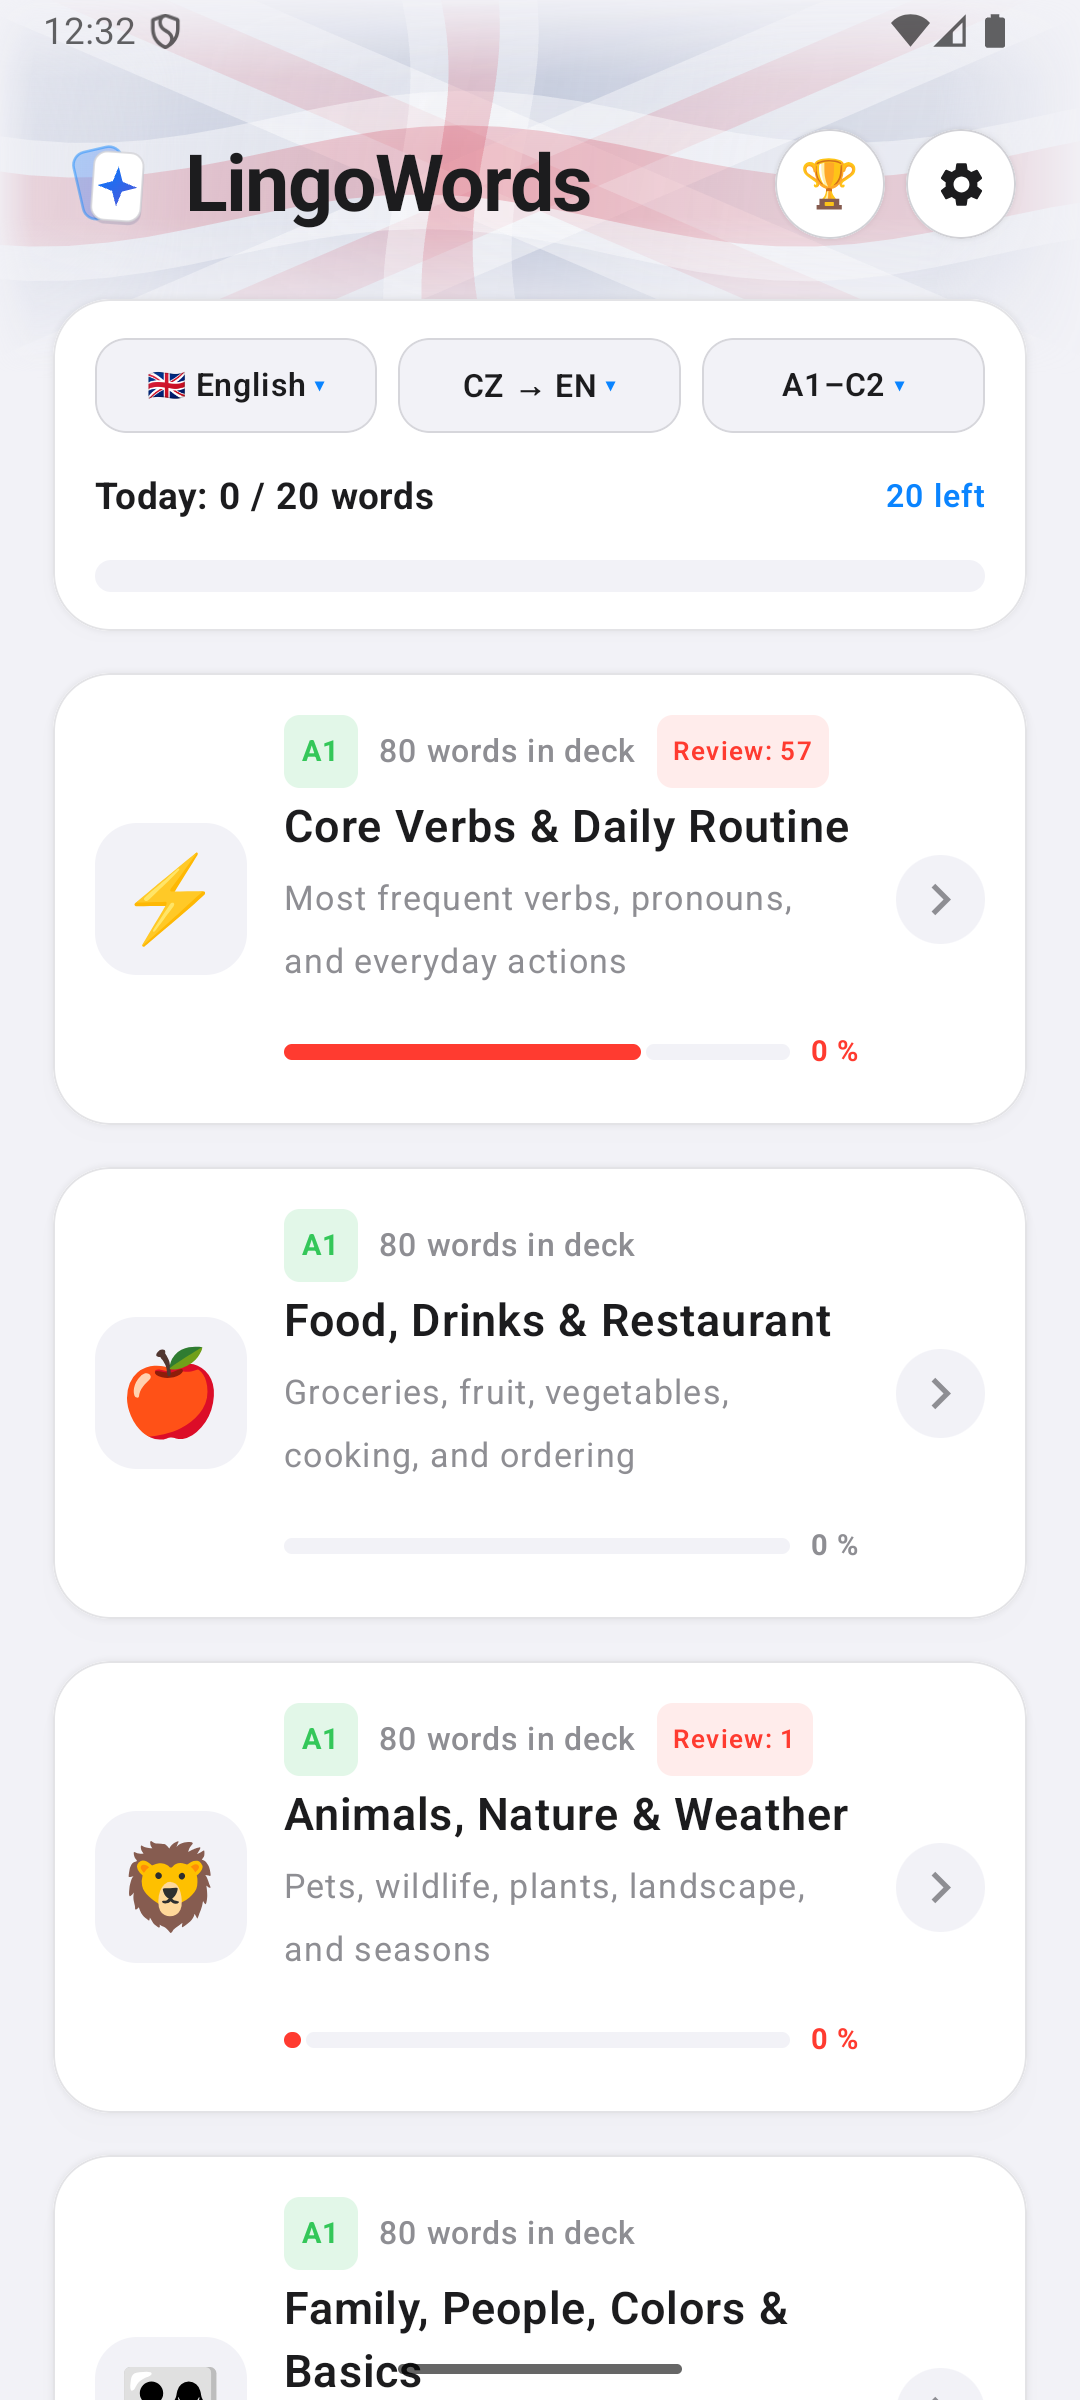
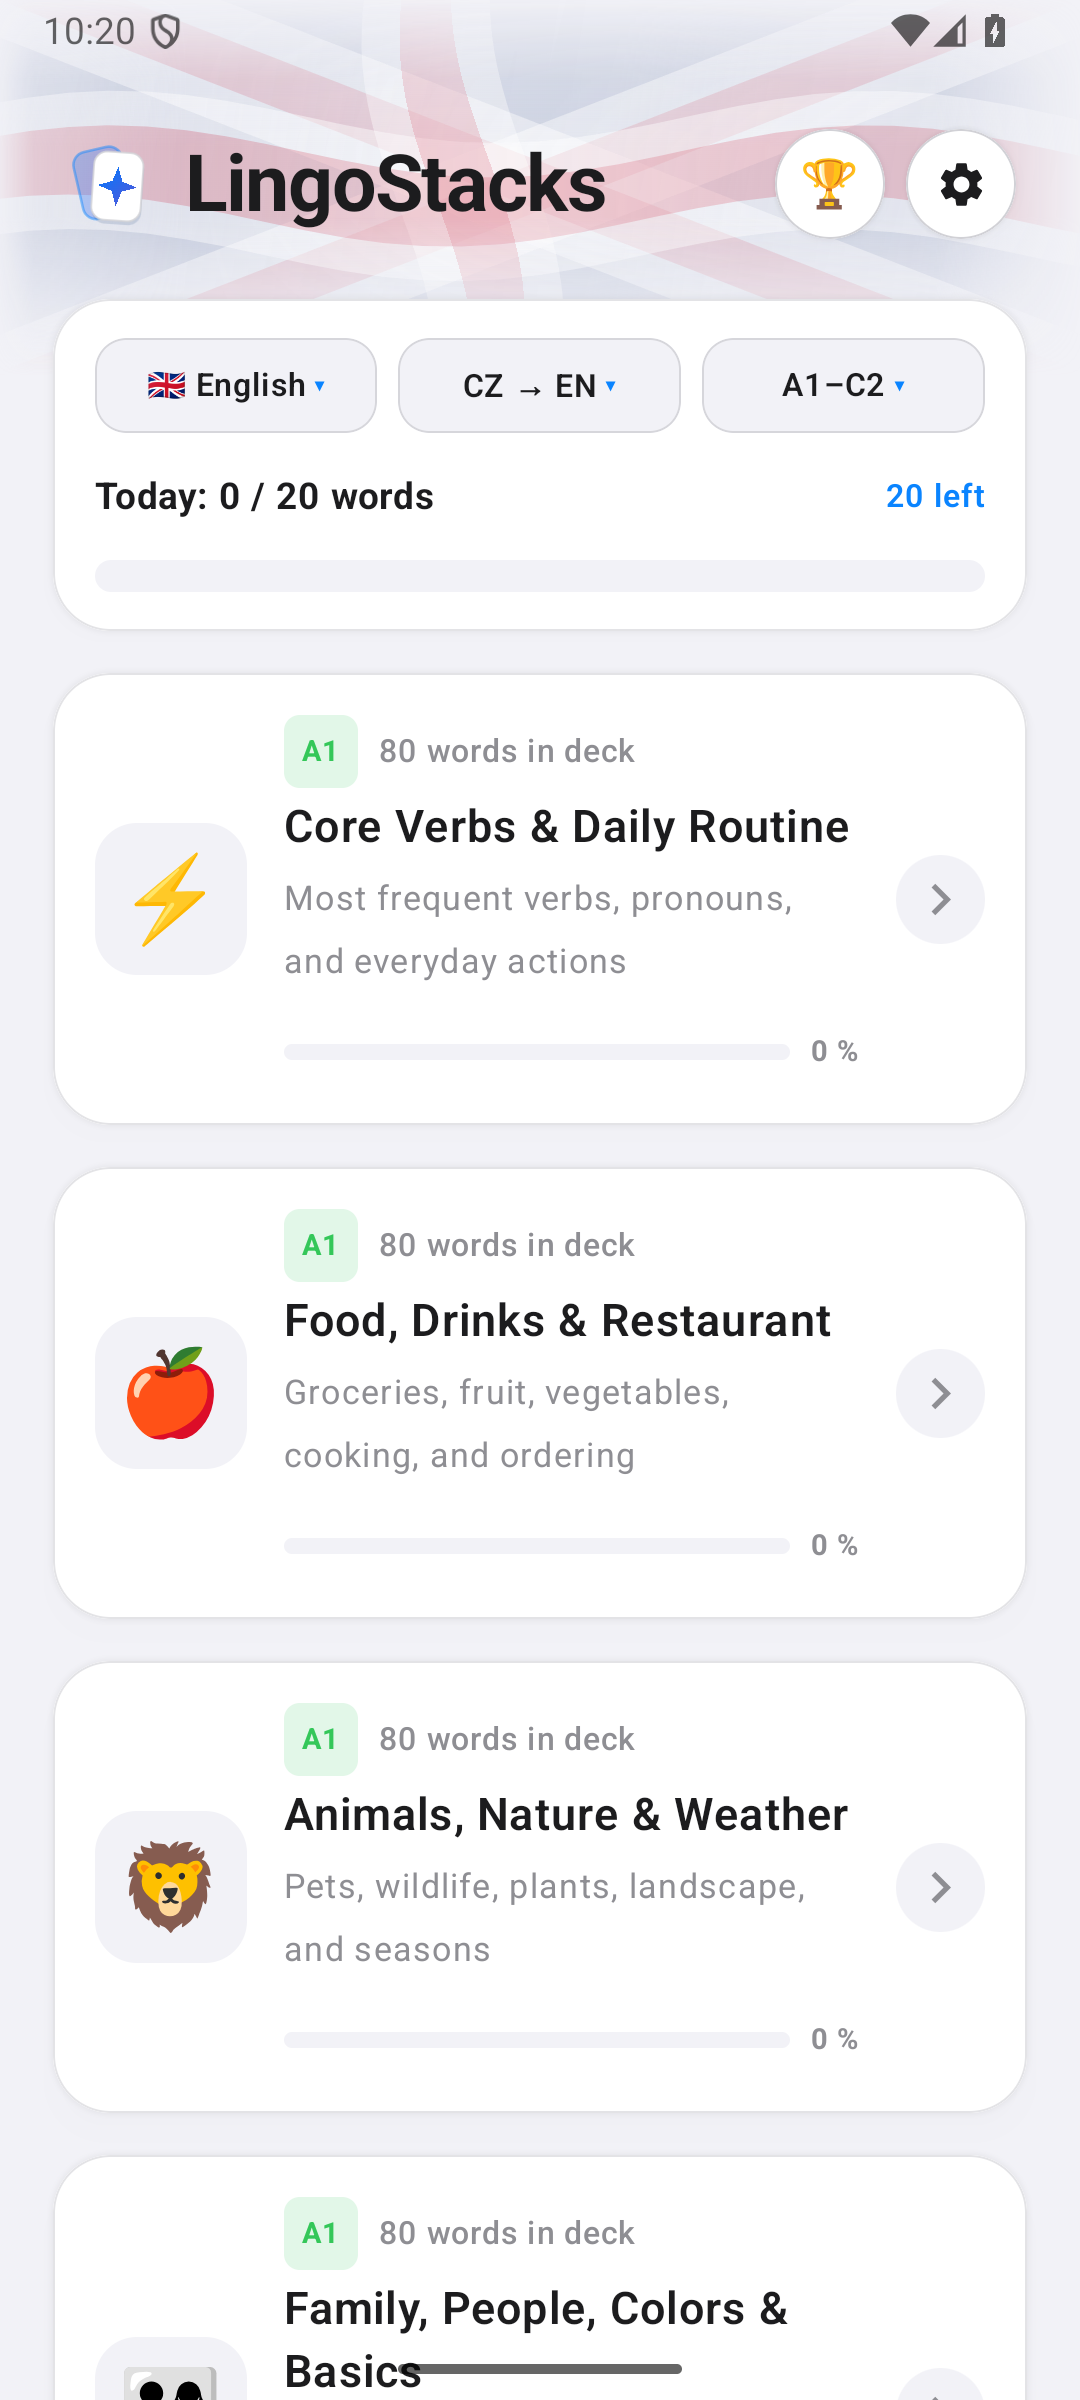
release: LingoWords v1.6.44

diff --git a/app/src/main/java/cz/slovickaspeak/app/data/OtaUpdater.kt b/app/src/main/java/cz/slovickaspeak/app/data/OtaUpdater.kt
@@ -39,7 +39,7 @@ sealed interface OtaCheckResult {
 }
 
 object OtaUpdater {
-    const val DEFAULT_GITHUB_REPO = "radekvlk/LingoWords"
+    const val DEFAULT_GITHUB_REPO = "radekvlk/LingoStacks"
 
     /**
      * Normalizes either "owner/repo" or "https://github.com/owner/repo" into "owner/repo".
@@ -112,7 +112,7 @@ object OtaUpdater {
                 readTimeout = 7000
                 setRequestProperty("Cache-Control", "no-cache")
                 setRequestProperty("Accept", "application/vnd.github+json")
-                setRequestProperty("User-Agent", "LingoWords-Android/${BuildConfig.VERSION_NAME}")
+                setRequestProperty("User-Agent", "LingoStacks-Android/${BuildConfig.VERSION_NAME}")
             }
 
             val code = conn.responseCode
@@ -157,7 +157,7 @@ object OtaUpdater {
                     if (name.endsWith(".apk", ignoreCase = true)) {
                         val dlUrl = asset.optString("browser_download_url", "")
                         val size = asset.optLong("size", 0L)
-                        if (chosenUrl.isEmpty() || name.contains("LingoWords", ignoreCase = true)) {
+                        if (chosenUrl.isEmpty() || name.contains("LingoStacks", ignoreCase = true) || name.contains("LingoWords", ignoreCase = true)) {
                             chosenUrl = dlUrl
                             chosenName = name
                             chosenSize = size
@@ -218,7 +218,7 @@ object OtaUpdater {
                 connectTimeout = 7000
                 readTimeout = 7000
                 setRequestProperty("Cache-Control", "no-cache")
-                setRequestProperty("User-Agent", "LingoWords-Android/${BuildConfig.VERSION_NAME}")
+                setRequestProperty("User-Agent", "LingoStacks-Android/${BuildConfig.VERSION_NAME}")
             }
             val code = conn.responseCode
             val location = conn.getHeaderField("Location") ?: ""
@@ -247,15 +247,15 @@ object OtaUpdater {
             }
 
             // Inspect expanded_assets HTML fragment to find the exact .apk download link
-            var apkUrl = "https://github.com/$slug/releases/download/$tagName/LingoWords_$tagName.apk"
-            var apkName = "LingoWords_$tagName.apk"
+            var apkUrl = "https://github.com/$slug/releases/download/$tagName/LingoStacks_$tagName.apk"
+            var apkName = "LingoStacks_$tagName.apk"
             try {
                 val assetsUrl = URL("https://github.com/$slug/releases/expanded_assets/$tagName")
                 val assetsConn = (assetsUrl.openConnection() as HttpURLConnection).apply {
                     requestMethod = "GET"
                     connectTimeout = 6000
                     readTimeout = 6000
-                    setRequestProperty("User-Agent", "LingoWords-Android/${BuildConfig.VERSION_NAME}")
+                    setRequestProperty("User-Agent", "LingoStacks-Android/${BuildConfig.VERSION_NAME}")
                 }
                 if (assetsConn.responseCode in 200..299) {
                     val html = assetsConn.inputStream.bufferedReader(Charsets.UTF_8).use { it.readText() }
@@ -352,8 +352,8 @@ object OtaUpdater {
             if (!exists()) mkdirs()
         }
 
-        val targetFile = File(updatesDir, "LingoWords_v${release.versionName}.apk")
-        val tempFile = File(updatesDir, "LingoWords_v${release.versionName}.apk.tmp")
+        val targetFile = File(updatesDir, "LingoStacks_v${release.versionName}.apk")
+        val tempFile = File(updatesDir, "LingoStacks_v${release.versionName}.apk.tmp")
 
         var currentUrl = release.apkDownloadUrl
         var conn: HttpURLConnection? = null
@@ -363,7 +363,7 @@ object OtaUpdater {
                 instanceFollowRedirects = false
                 connectTimeout = 12000
                 readTimeout = 20000
-                setRequestProperty("User-Agent", "LingoWords-Android/${BuildConfig.VERSION_NAME}")
+                setRequestProperty("User-Agent", "LingoStacks-Android/${BuildConfig.VERSION_NAME}")
             }
             val status = attempt.responseCode
             if (status in 300..399) {

diff --git a/app/src/main/java/cz/slovickaspeak/app/ui/SettingsModal.kt b/app/src/main/java/cz/slovickaspeak/app/ui/SettingsModal.kt
@@ -735,7 +735,7 @@ private fun AppVersionSectionCard(
     val githubReleasesUrl = "https://github.com/$cleanSlug/releases/latest"
     val targetShareVersion = available?.versionName ?: versionName
     val directApkDownloadUrl = available?.apkDownloadUrl?.takeIf { it.isNotBlank() }
-        ?: "https://github.com/$cleanSlug/releases/download/v$versionName/LingoWords_v$versionName.apk"
+        ?: "https://github.com/$cleanSlug/releases/download/v$versionName/LingoStacks_v$versionName.apk"
 
     val shareDirectApkLink: () -> Unit = {
         val shareBody = if (strings.isCzech) {
